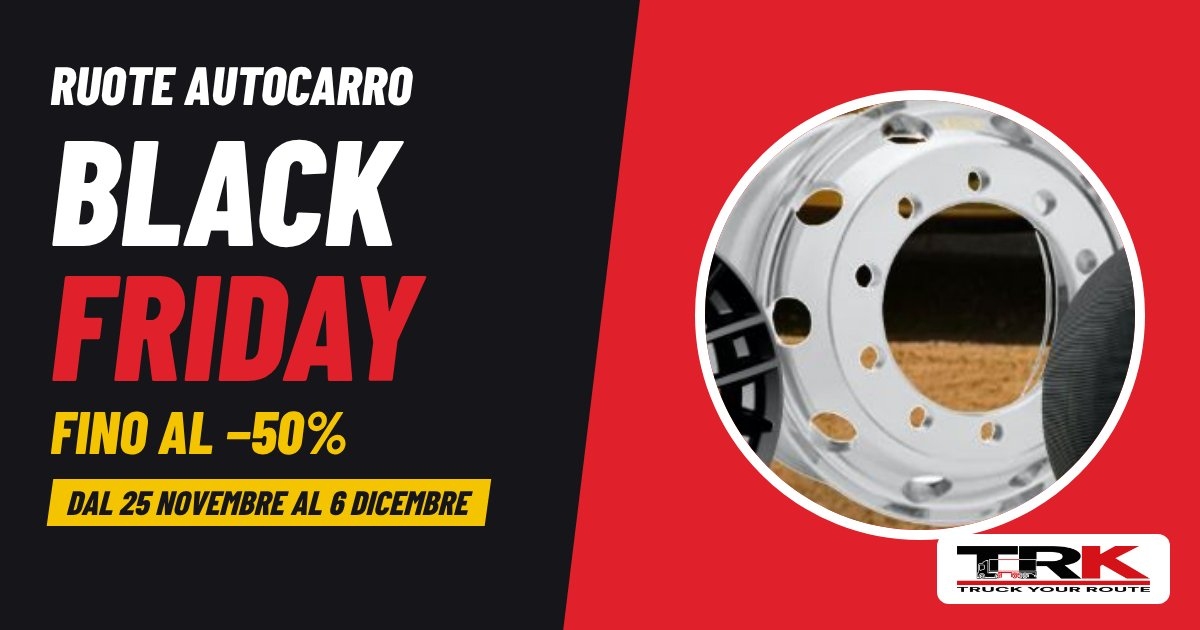
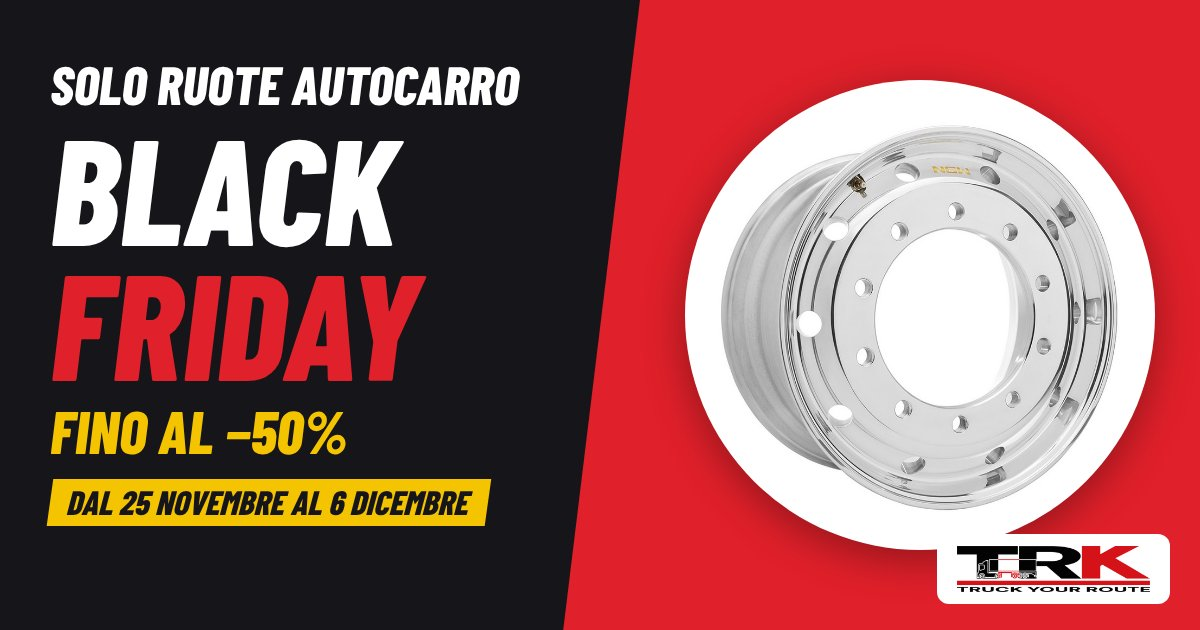
Ruote autocarro: anteprima con foto NGW e testo 'solo promo autocarro'
Claude-Session: https://claude.ai/code/session_01Y1HpgoTr21YU5RchKrFfrh

Changed region(s): [[0.555, 0.1206, 0.9867, 0.9048], [0.0308, 0.0905, 0.4317, 0.181]]

diff --git a/ruote-autocarro/index.html b/ruote-autocarro/index.html
@@ -6,9 +6,9 @@
 <title>Black Friday MAK · Ruote autocarro</title>
 <meta name="description" content="Black Friday B2B dal 25 novembre al 6 dicembre 2026: tutte le promo MAK, NoProblemKit, MATE e Truck in una pagina, con un solo ordine su WhatsApp. Prezzi netti IVA esclusa.">
 <meta property="og:type" content="website">
-<meta property="og:title" content="Ruote autocarro Black Friday MAK: extra sconto fino al −50%">
-<meta property="og:description" content="Dal 25 novembre al 6 dicembre: 52 ruote autocarro in acciaio e lega a magazzino, prezzi netti Black Friday. Scegli la misura e ordina su WhatsApp.">
-<meta property="og:image" content="https://matteovismaraapp.github.io/black-friday-mak/ruote-autocarro/anteprima.jpg?v=1">
+<meta property="og:title" content="Solo ruote autocarro · Black Friday MAK fino al −50%">
+<meta property="og:description" content="Link dedicato solo alle promo Black Friday sulle ruote autocarro: 52 ruote in acciaio e lega a magazzino, dal 25/11 al 6/12. Scegli la misura e ordina su WhatsApp.">
+<meta property="og:image" content="https://matteovismaraapp.github.io/black-friday-mak/ruote-autocarro/anteprima.jpg?v=2">
 <meta property="og:image:width" content="1200">
 <meta property="og:image:height" content="630">
 <meta property="og:url" content="https://matteovismaraapp.github.io/black-friday-mak/ruote-autocarro/">
@@ -170,7 +170,7 @@ h2 em{font-style:normal;color:var(--red)}
 <div class="wrap">
 
 <header class="hero">
-  <p class="pre">Promo B2B · ruote autocarro</p>
+  <p class="pre">Solo promo ruote autocarro</p>
   <h1>Black <em>Friday</em></h1>
   <div class="date">Dal 25 novembre al 6 dicembre</div>
 </header>
@@ -179,7 +179,7 @@ h2 em{font-style:normal;color:var(--red)}
 </div>
 
 <section style="padding-bottom:0">
-  <p class="pick">Scegli la misura e componi il tuo ordine</p>
+  <p class="pick">Qui trovi solo le promo Black Friday sulle ruote autocarro. Scegli la misura e componi il tuo ordine</p>
 </section>
 
 <div class="sezioni" id="sezioni"></div>
